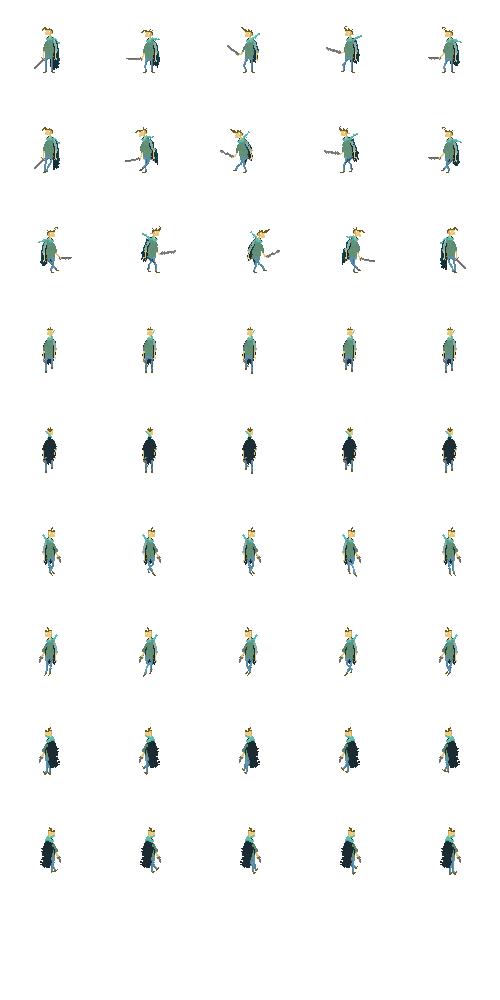
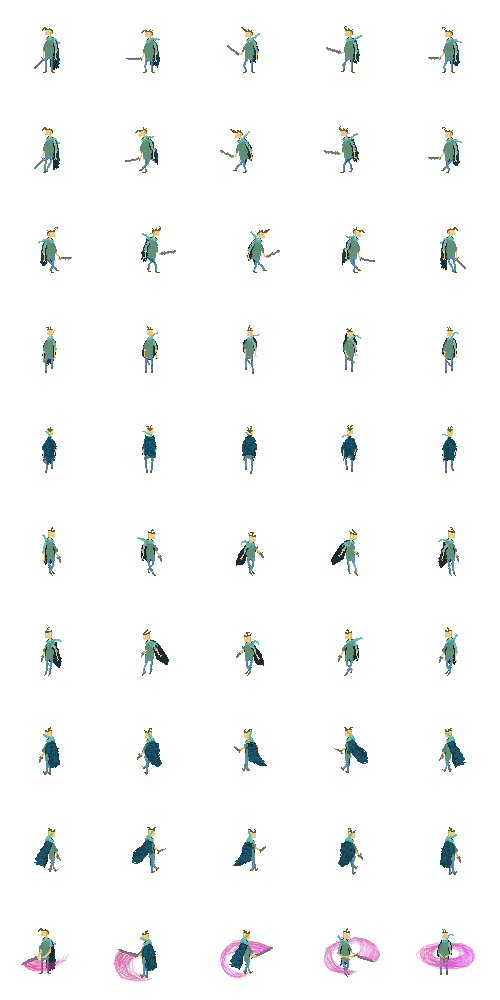
animation spelare

diff --git a/CoT/CoT/GameObjects/Creatures/Player.cs b/CoT/CoT/GameObjects/Creatures/Player.cs
@@ -20,6 +20,7 @@ namespace CoT
         private Projectile fireBall = null;
         private HealthBar hpBar;
         public int CanFireBall { get; set; }
+        private bool playAttackAnimation;
         public float SpeedBoostTimer { get; set; }
         enum PlayerState 
         {
@@ -206,6 +207,8 @@ namespace CoT
                     DecideEnemiesInRange(attackDirection);
                 }
                 currentPlayerState = PlayerState.Attacking;
+                playAttackAnimation = true;
+
 
                 for (int i = 0; i < 20; i++)
                 {
@@ -365,7 +368,7 @@ namespace CoT
 
         public void Animation()
         {
-            if (currentPlayerState != PlayerState.Idle)
+            if (currentPlayerState != PlayerState.Idle && currentPlayerState != PlayerState.Attacking)
             {
                 switch (facingDirection)
                 {
@@ -403,10 +406,27 @@ namespace CoT
                         break;
                 }
             }
-            else
+            else if (currentPlayerState == PlayerState.Idle && !playAttackAnimation)
             {
                 Spritesheet.SetFrameCount(new Point(5, 1));
                 Spritesheet.SetCurrentFrame(0);
+            }
+
+            if (playAttackAnimation)
+            {
+                Spritesheet.SetFrameCount(new Point(5, 10));
+                Spritesheet.SetCurrentFrame(45);
+                Spritesheet.Interval = 30;
+
+                if (Spritesheet.CurrentFrame >= 49)
+                {
+                    playAttackAnimation = false;
+                }
+            }
+
+            if (!playAttackAnimation)
+            {
+                Spritesheet.Interval = 100;
             }
         }
 

diff --git a/CoT/CoT/World/Generation/MapGenerator.cs b/CoT/CoT/World/Generation/MapGenerator.cs
@@ -77,6 +77,7 @@ namespace CoT
                     }
                 }
             }
+            
 
             for (int i = 0; i < Corridors.Length; i++)
             {
